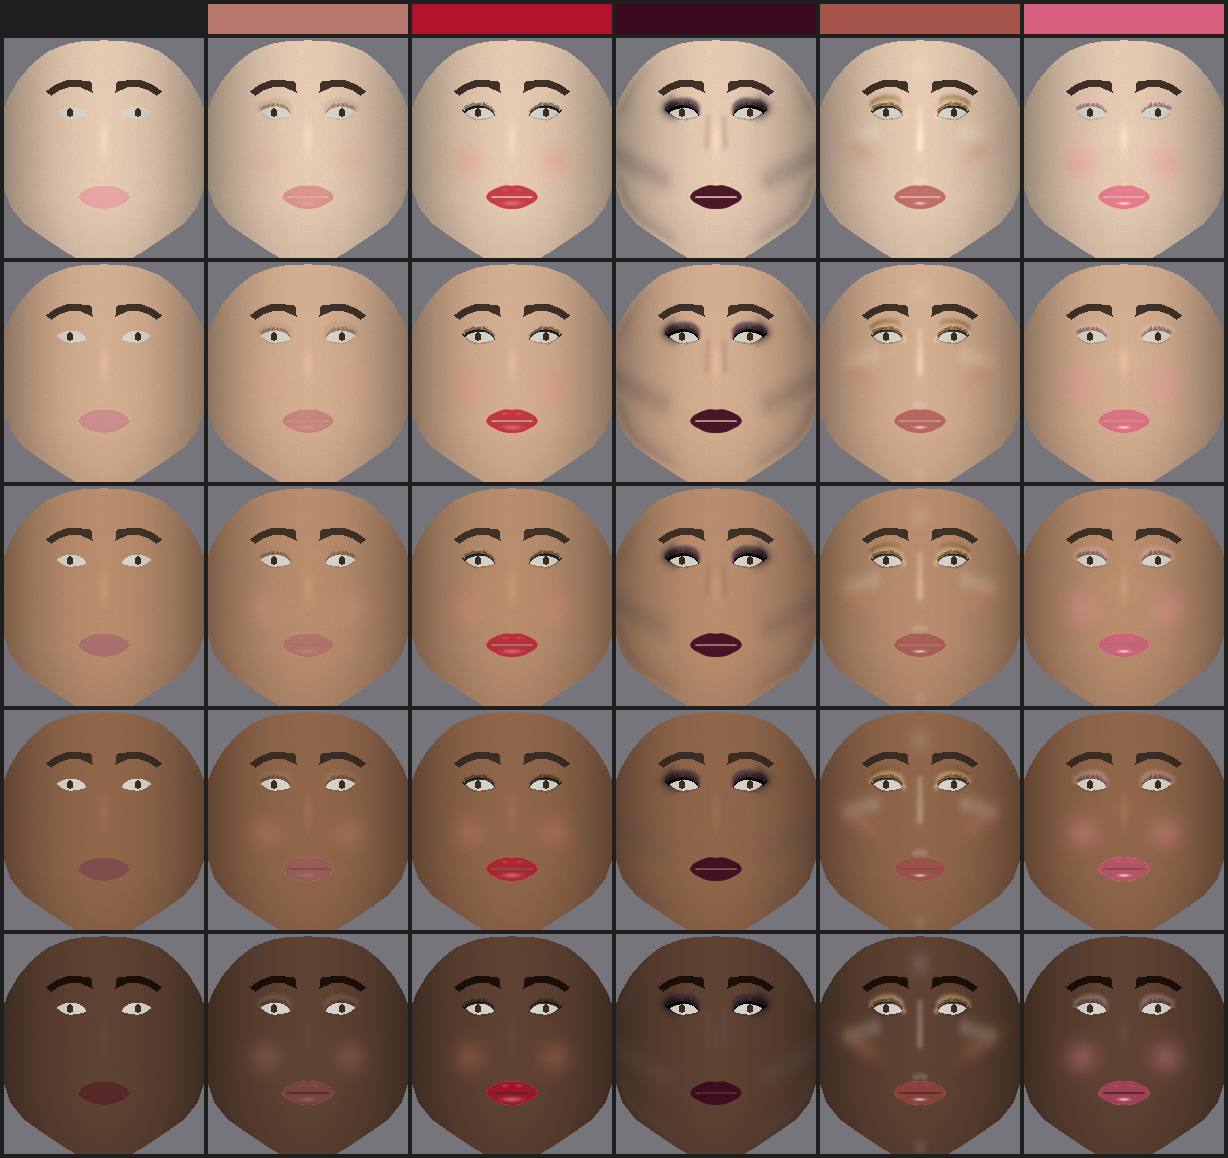
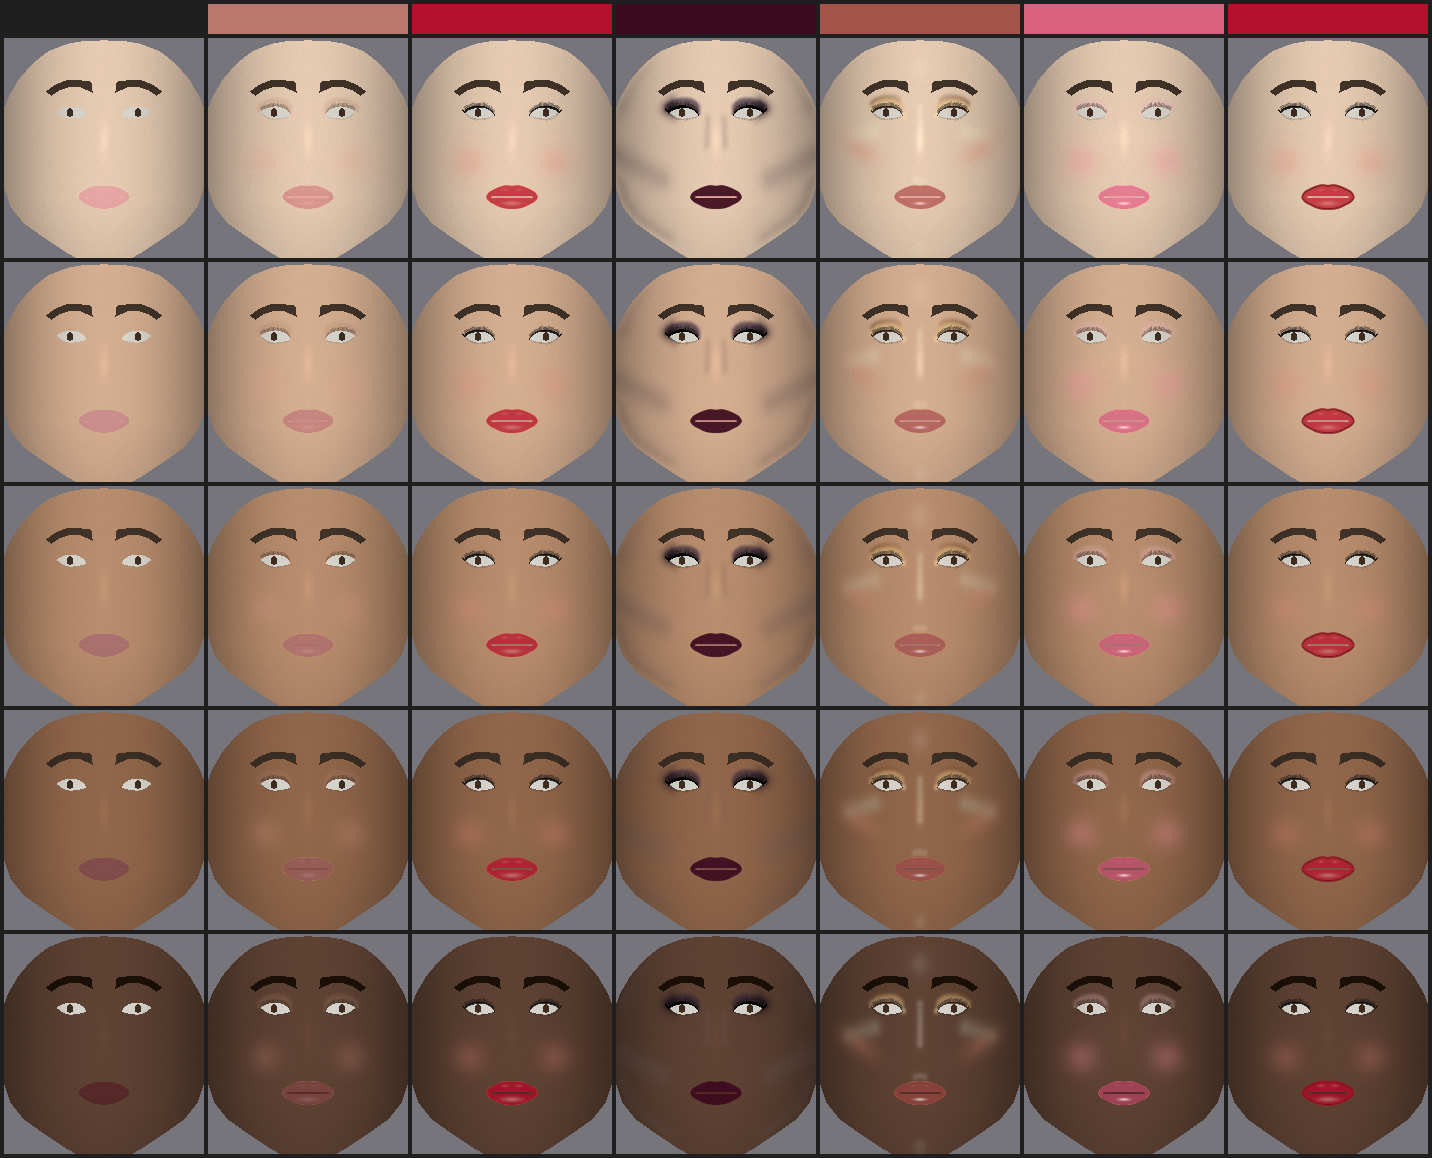
P6b: delineado de labios (lips.liner): la receta queda completa
- lips.frag: anillo sobre el borde del labial (canal B del mapa), con
  antialiasado fwidth con piso y techo, encima del labial con el mismo
  sombreado, mate (tapa el brillo); rama por uniform si no hay delineado.
  Grosor en engine_config.h (kLipLinerEdge).
- Renderer: setLipLiner + commit; nativeSetLipLiner; LipParams.liner en
  Kotlin (test JVM).
- Referencia Python (liner_alpha, shade con delineado) y tests; grilla de
  cara con una columna de prueba.
- Arnés: opción "Rojo + delineado" (ningún preset lo usa) vía
  TestFilterView.extraOptions (test de widget).
- LIPS.md y FACE.md al día. Verificado en el emulador.

diff --git a/lib/main_tracker.dart b/lib/main_tracker.dart
@@ -4,6 +4,8 @@ import 'package:flutter/material.dart';
 import 'package:makeup_engine/makeup_engine.dart';
 import 'package:permission_handler/permission_handler.dart';
 
+import 'features/ar/domain/makeup_recipe.dart';
+import 'features/ar/domain/recipe_presets.dart';
 import 'features/ar/presentation/test_filter_view.dart';
 
 /// Arnés de medición de P3 (tracker + compositor), separado de la app (sin
@@ -72,6 +74,30 @@ class _TrackerHarnessState extends State<_TrackerHarness> {
     }
   }
 
+  /// Receta de prueba: ningún preset usa el delineado de labios (P6b). Rojo
+  /// clásico con un delineado bordó.
+  static TestFilterOption _lipLinerOption() {
+    final red = RecipePresets.all.firstWhere((p) => p.id == 'classic_red').recipe;
+    final lips = red.lips;
+    final recipe = MakeupRecipe(
+      name: 'Rojo + delineado',
+      lips: lips == null
+          ? null
+          : LipsSpec(
+              color: lips.color,
+              opacity: lips.opacity,
+              finish: lips.finish,
+              gloss: lips.gloss,
+              lumaFollow: lips.lumaFollow,
+              liner: const ColorLayer(color: RecipeColor(0x6E0A1A), opacity: 0.8),
+            ),
+      cheeks: red.cheeks,
+      eyes: red.eyes,
+      skin: red.skin,
+    );
+    return TestFilterOption(id: 'lip_liner_test', label: recipe.name, recipe: recipe);
+  }
+
   static String _f(double? value, [int digits = 1]) => value == null ? '-' : value.toStringAsFixed(digits);
 
   @override
@@ -80,8 +106,9 @@ class _TrackerHarnessState extends State<_TrackerHarness> {
     return Scaffold(
       backgroundColor: Colors.black,
       body: granted == true
-          ? const TestFilterView(
-              labels: TestFilterLabels(
+          ? TestFilterView(
+              extraOptions: [_lipLinerOption()],
+              labels: const TestFilterLabels(
                 noFilter: 'Sin filtro',
                 intensity: 'Intensidad',
                 note: 'Arnés P3-P5: tracker + maquillaje completo. Métricas en logcat (TRACK).',

diff --git a/lib/features/ar/presentation/test_filter_view.dart b/lib/features/ar/presentation/test_filter_view.dart
@@ -109,7 +109,13 @@ final class TestFilterLabels {
 /// pantalla en vertical, la única orientación validada del motor. Quien la
 /// monte tiene que haber liberado antes cualquier otro uso de la cámara.
 class TestFilterView extends StatefulWidget {
-  const TestFilterView({super.key, required this.labels, this.renderer, this.onUnavailable});
+  const TestFilterView({
+    super.key,
+    required this.labels,
+    this.renderer,
+    this.onUnavailable,
+    this.extraOptions = const [],
+  });
 
   final TestFilterLabels labels;
 
@@ -119,6 +125,9 @@ class TestFilterView extends StatefulWidget {
   /// El renderer no puede mostrar maquillaje (ver [IMakeupRenderer.start]).
   final VoidCallback? onUnavailable;
 
+  /// Opciones después de los presets (el arnés suma recetas de prueba).
+  final List<TestFilterOption> extraOptions;
+
   @override
   State<TestFilterView> createState() => _TestFilterViewState();
 }
@@ -127,7 +136,10 @@ class _TestFilterViewState extends State<TestFilterView> {
   static const Duration _statsPeriod = Duration(seconds: 1);
 
   late final IMakeupRenderer _renderer = widget.renderer ?? createMakeupRenderer();
-  late final List<TestFilterOption> _options = TestFilterOption.fromPresets(widget.labels.noFilter);
+  late final List<TestFilterOption> _options = [
+    ...TestFilterOption.fromPresets(widget.labels.noFilter),
+    ...widget.extraOptions,
+  ];
   final ValueNotifier<MakeupRendererStats> _stats = ValueNotifier(MakeupRendererStats.empty);
 
   MakeupSurface? _surface;

diff --git a/test/features/ar/presentation/test_filter_view_test.dart b/test/features/ar/presentation/test_filter_view_test.dart
@@ -157,6 +157,22 @@ void main() {
     expect(renderer.recipes, isEmpty);
   });
 
+  testWidgets('las opciones extra van después de los presets', (tester) async {
+    final renderer = FakeRenderer();
+    final extra = TestFilterOption(id: 'x', label: 'Prueba', recipe: MakeupRecipe(name: 'Prueba'));
+    await tester.pumpWidget(MaterialApp(
+      home: Scaffold(body: TestFilterView(labels: labels, renderer: renderer, extraOptions: [extra])),
+    ));
+    await tester.pumpAndSettle();
+    // La lista de looks se construye a demanda: hay que desplazarla.
+    final looks = find.ancestor(of: find.text('Natural'), matching: find.byType(Scrollable));
+    await tester.scrollUntilVisible(find.text('Prueba'), 200, scrollable: looks.first);
+    await tester.pumpAndSettle();
+    await tester.tap(find.text('Prueba'));
+    await tester.pumpAndSettle();
+    expect(renderer.recipes.last?.name, 'Prueba');
+  });
+
   test('etiqueta del tracker según su estado', () {
     expect(trackerLabel(MakeupRendererStats.empty), 'Tracker: iniciando…');
     expect(trackerLabel(const MakeupRendererStats(tracking: FaceTrackingState.loading)), 'Tracker: cargando modelos…');

diff --git a/packages/makeup_engine/android/src/main/kotlin/com/makeupar/makeup_engine/RecipeParams.kt b/packages/makeup_engine/android/src/main/kotlin/com/makeupar/makeup_engine/RecipeParams.kt
@@ -79,6 +79,8 @@ internal data class LipParams(
     val finish: Int,
     val gloss: Float,
     val lumaFollow: Float,
+    /** Delineado de labios (`lips.liner`); apagado si falta o es inválido. */
+    val liner: ColorParams = ColorParams.DISABLED,
 ) {
     companion object {
         val DISABLED = LipParams(false, 0f, 0f, 0f, 0f, NativeBridge.LIP_FINISH_SATIN, 0f, 0f)
@@ -112,6 +114,7 @@ internal data class LipParams(
                 finish = finish,
                 gloss = unit(lips["gloss"]) ?: DEFAULT_GLOSS.getValue(finish),
                 lumaFollow = unit(lips["lumaFollow"]) ?: DEFAULT_LUMA_FOLLOW,
+                liner = ColorParams.fromMap(lips["liner"] as? Map<*, *>, "opacity"),
             )
         }
     }

diff --git a/packages/makeup_engine/android/src/test/kotlin/com/makeupar/makeup_engine/RecipeParamsTest.kt b/packages/makeup_engine/android/src/test/kotlin/com/makeupar/makeup_engine/RecipeParamsTest.kt
@@ -28,6 +28,14 @@ class RecipeParamsTest {
         assertEquals(NativeBridge.LIP_FINISH_GLOSS, lips.finish)
         assertNear(0.6f, lips.gloss)
         assertNear(0.35f, lips.lumaFollow)
+        assertFalse(lips.liner.enabled)
+        val lined = LipParams.fromMap(
+            mapOf("color" to "#B3122D", "opacity" to 0.85, "liner" to mapOf("color" to "#7A0C1E", "opacity" to 0.7)),
+        )
+        assertTrue(lined.liner.enabled)
+        assertNear(0x7A / 255f, lined.liner.r)
+        assertNear(0.7f, lined.liner.amount)
+        assertFalse(LipParams.fromMap(mapOf("color" to "#B3122D", "opacity" to 0.85, "liner" to mapOf("color" to "#7A0C1E"))).liner.enabled)
     }
 
     @Test

diff --git a/packages/makeup_engine/android/src/main/kotlin/com/makeupar/makeup_engine/EngineSession.kt b/packages/makeup_engine/android/src/main/kotlin/com/makeupar/makeup_engine/EngineSession.kt
@@ -349,6 +349,8 @@ internal class EngineSession(
         NativeBridge.nativeSetLips(
             handle, lips.enabled, lips.r, lips.g, lips.b, lips.opacity, lips.finish, lips.gloss, lips.lumaFollow,
         )
+        val lipLiner = lips.liner
+        NativeBridge.nativeSetLipLiner(handle, lipLiner.enabled, lipLiner.r, lipLiner.g, lipLiner.b, lipLiner.amount)
         val cheeks = params.cheeks
         val blush = cheeks.color
         NativeBridge.nativeSetCheeks(

diff --git a/packages/makeup_engine/android/src/main/kotlin/com/makeupar/makeup_engine/NativeBridge.kt b/packages/makeup_engine/android/src/main/kotlin/com/makeupar/makeup_engine/NativeBridge.kt
@@ -136,6 +136,9 @@ internal object NativeBridge {
         lumaFollow: Float,
     )
 
+    /** Delineado de labios (lips.liner): color y opacidad; solo se ve con labial. */
+    @JvmStatic external fun nativeSetLipLiner(handle: Long, enabled: Boolean, r: Float, g: Float, b: Float, opacity: Float)
+
     /** Rubor: opacidad, spread [0,1] y placement (CHEEK_*). */
     @JvmStatic external fun nativeSetCheeks(
         handle: Long,

diff --git a/tools/lips/lip_shading.py b/tools/lips/lip_shading.py
@@ -63,15 +63,35 @@ class LipParams:
     light: float  # atenuación por luz de la escena, [0, 1]
 
 
+@dataclass(frozen=True)
+class LipLiner:
+    """Delineado de labios (uLinerLab, uLinerAmount, uLinerEdge)."""
+
+    target_lab: np.ndarray
+    amount: float  # opacidad [0, 1]; 0 = sin delineado
+    edge: float = 0.3  # engine_config.h: kLipLinerEdge
+
+
+def liner_alpha(distance: np.ndarray, liner: LipLiner, aa: np.ndarray | float) -> np.ndarray:
+    """Cobertura del delineado sobre el canal B del mapa (distancia al borde)."""
+    if liner.amount <= 0.0:
+        return np.zeros_like(distance)
+    aa = np.clip(aa, 1e-3, 0.5)
+    t = np.clip((distance - liner.edge) / aa, 0.0, 1.0)
+    return (1.0 - t * t * (3.0 - 2.0 * t)) * liner.amount
+
+
 def shade(camera_srgb: np.ndarray, mask: np.ndarray, gloss_map: np.ndarray, p: LipParams,
-          sparkle: np.ndarray | float = 0.0) -> np.ndarray:
+          sparkle: np.ndarray | float = 0.0, liner: np.ndarray | float = 0.0,
+          liner_lab: np.ndarray | None = None) -> np.ndarray:
     """Color sRGB de salida por píxel (lips.frag).
 
     camera_srgb (..., 3) en [0,1]; mask y gloss_map (...) en [0,1] (canales R
     y G del mapa de labios; gloss_map ya leído en la posición desplazada por
     la pose). sparkle (...) son los destellos ya multiplicados por uSparkle
     (el hash de celdas del shader no se reproduce). La orientación (vFacing
-    de lips.vert) no está: equivale a 1, el labio de frente.
+    de lips.vert) no está: equivale a 1, el labio de frente. liner (...) es la
+    cobertura del delineado (liner_alpha) con su color OKLab liner_lab.
     """
     w = np.clip(mask * p.opacity, 0.0, 1.0)
     lab = to_ok(srgb_to_lin(camera_srgb))
@@ -83,14 +103,19 @@ def shade(camera_srgb: np.ndarray, mask: np.ndarray, gloss_map: np.ndarray, p: L
     lit = p.target_lab * shading[..., None]
     lightness = np.clip(lab[..., 0] + (lit[..., 0] - lab[..., 0]) * w * p.luma_follow, 0.0, 1.0)
     ab = lab[..., 1:] + (lit[..., 1:] - lab[..., 1:]) * w[..., None]
+    liner = np.broadcast_to(np.asarray(liner, dtype=float), w.shape)
+    if liner_lab is not None:
+        liner_lit = liner_lab * shading[..., None]
+        lightness = np.clip(lightness + (liner_lit[..., 0] - lightness) * liner, 0.0, 1.0)
+        ab = ab + (liner_lit[..., 1:] - ab) * liner[..., None]
     out = oklab_to_linear_in_gamut(np.concatenate([lightness[..., None], ab], axis=-1))
     # El brillo necesita luz: no aparece en las sombras y pliegues del labio.
     lit_gate = _smoothstep(GLOSS_SHADING_LOW, GLOSS_SHADING_HIGH, shading)
     # Los destellos ya vienen con su brillo (uSparkle): no se multiplican por gloss.
-    spec = (np.power(gloss_map, p.sharpness) * p.gloss + sparkle) * p.light * w * lit_gate
+    spec = (np.power(gloss_map, p.sharpness) * p.gloss + sparkle) * p.light * w * (1.0 - liner) * lit_gate
     out = np.minimum(out + spec[..., None], 1.0)
-    # Fuera de la máscara el shader devuelve la cámara tal cual.
-    return np.where((w > 0.0)[..., None], lin_to_srgb(out), camera_srgb)
+    # Fuera de la máscara y del delineado el shader no toca el píxel.
+    return np.where(((w > 0.0) | (liner > 0.0))[..., None], lin_to_srgb(out), camera_srgb)
 
 
 def _smoothstep(edge0: float, edge1: float, x: np.ndarray) -> np.ndarray:

diff --git a/tools/makeup/calibration_grid.py b/tools/makeup/calibration_grid.py
@@ -35,7 +35,8 @@ import gen_face_maps as fm  # noqa: E402
 import gen_lips_maps as lm  # noqa: E402
 from face_shading import (Layer, blend, compose, freckle_alpha, freckle_lab, glitter_sparkle,  # noqa: E402
                           lash_alpha, layer_over, sheen_gain)
-from lip_shading import LipParams, from_ok, hex_to_srgb, lin_to_srgb, shade, srgb_to_oklab, to_ok  # noqa: E402
+from lip_shading import (LipLiner, LipParams, from_ok, hex_to_srgb, lin_to_srgb, liner_alpha, shade,  # noqa: E402
+                         srgb_to_oklab, to_ok)
 
 PRESETS_DART = ROOT / "lib/features/ar/domain/recipe_presets.dart"
 ENGINE_CONFIG = ROOT / "packages/makeup_engine/android/src/main/cpp/engine_config.h"
@@ -119,7 +120,7 @@ class Maps:
         self.eye_c = sample(c8, eye_rect, self.mirrored, self.v)
         self.side = (self.u > 0.5).astype(float)
         lips = sample(lips_rg8, lips_rect, self.u, self.v)
-        self.lips_mask, self.lips_gloss = lips[..., 0], lips[..., 1]
+        self.lips_mask, self.lips_gloss, self.lips_liner = lips[..., 0], lips[..., 1], lips[..., 2]
 
         points = np.stack([self.mirrored.ravel(), self.v.ravel()], axis=1)
         shape = self.u.shape
@@ -272,8 +273,15 @@ def apply_recipe(camera: np.ndarray, maps: Maps, recipe: dict, k: dict[str, floa
                            luma_follow=lips.get("lumaFollow", 0.8), lip_lightness=lip_ref, gloss=gloss,
                            sharpness=sharpness, light=1.0)
         w = np.clip(maps.lips_mask * params.opacity, 0, 1)
-        result = shade(camera, maps.lips_mask, maps.lips_gloss, params)
-        out = blend(out, *layer_over(result, camera, w))
+        liner = np.zeros_like(w)
+        liner_lab = None
+        if lips.get("liner"):
+            spec = LipLiner(color(lips["liner"]["color"]), lips["liner"]["opacity"], k["kLipLinerEdge"])
+            gy, gx = np.gradient(maps.lips_liner)
+            liner = liner_alpha(maps.lips_liner, spec, np.abs(gx) + np.abs(gy))
+            liner_lab = spec.target_lab
+        result = shade(camera, maps.lips_mask, maps.lips_gloss, params, liner=liner, liner_lab=liner_lab)
+        out = blend(out, *layer_over(result, camera, 1.0 - (1.0 - w) * (1.0 - liner)))
     return np.clip(out, 0, 1)
 
 
@@ -285,6 +293,10 @@ def _smooth(edge0: float, edge1: float, x: np.ndarray) -> np.ndarray:
 def main() -> int:
     k = engine_constants()
     looks = presets()
+    # Columna de prueba: ningún preset usa el delineado de labios.
+    red = next(r for r in looks if r["name"] == "Rojo clásico")
+    looks.append({**red, "name": "Rojo + delineado (prueba)",
+                  "lips": {**red["lips"], "liner": {"color": "#6E0A1A", "opacity": 0.8}}})
     maps = Maps()
     columns = 1 + len(looks)
     width = columns * CELL_W + (columns + 1) * GAP

diff --git a/packages/makeup_engine/android/src/main/cpp/renderer.cpp b/packages/makeup_engine/android/src/main/cpp/renderer.cpp
@@ -189,11 +189,14 @@ bool Renderer::buildLipsProgram(LipsProgram& out, const char* defines) {
   out.view = glGetUniformLocation(id, "uView");
   out.time = glGetUniformLocation(id, "uTime");
   out.sparkle = glGetUniformLocation(id, "uSparkle");
+  out.linerLab = glGetUniformLocation(id, "uLinerLab");
+  out.linerAmount = glGetUniformLocation(id, "uLinerAmount");
   // Constantes de la sesión: samplers y la transformación UV -> mapa.
   const float* rect = mesh::kLipsMapUvRect;
   glUseProgram(id);
   glUniform1i(glGetUniformLocation(id, "uCamera"), 0);
   glUniform1i(glGetUniformLocation(id, "uLipsMap"), kLipsMapTextureUnit);
+  glUniform1f(glGetUniformLocation(id, "uLinerEdge"), EngineConfig::kLipLinerEdge);
   glUniform4f(glGetUniformLocation(id, "uMapTransform"), 1.0f / rect[2], 1.0f / rect[3],
               -rect[0] / rect[2], -rect[1] / rect[3]);
   glUniform2f(glGetUniformLocation(id, "uFacingFade"), EngineConfig::kLipsFacingFadeStart,
@@ -469,6 +472,8 @@ void Renderer::drawLips(const RenderLandmarks& landmarks, const float* imageToCl
   glUniform1f(program.lipLightness, lipLightness);
   glUniform1f(program.gloss, drawLips_.gloss);
   if (program.sparkle >= 0) glUniform1f(program.sparkle, drawLips_.sparkle);
+  glUniform3fv(program.linerLab, 1, drawLips_.linerLab);
+  glUniform1f(program.linerAmount, drawLips_.linerAmount * landmarks.alpha);
   glUniform1f(program.sharpness, drawLips_.sharpness);
   glUniform1f(program.light, light);
   glUniform2f(program.glossShift, shiftU / rect[2], shiftV / rect[3]);
@@ -564,6 +569,11 @@ void Renderer::setLips(const LipStyle& style) {
   pendingLips_ = uniforms;
 }
 
+void Renderer::setLipLiner(const ColorLayer& style) {
+  std::lock_guard<std::mutex> lock(configMutex_);
+  pendingLipLiner_ = style;
+}
+
 void Renderer::setCheeks(const CheekStyle& style) {
   std::lock_guard<std::mutex> lock(configMutex_);
   pendingCheek_ = style;
@@ -605,6 +615,8 @@ void Renderer::commitRecipe() {
   eyeUniforms_ = resolveEyes(pendingShadows_, pendingLiner_, pendingLashes_);
   LipEffects lipEffects;
   applyEffects(pendingEffects_, &faceUniforms_, &eyeUniforms_, &lipEffects);
+  // Delineado de labios (face_style: mismo recorte que las otras capas).
+  resolveColorLayer(pendingLipLiner_, lipUniforms_.linerLab, &lipUniforms_.linerAmount);
   // Glitter y sheen en los labios: solo si hay labial (si no, no hay capa).
   if (lipUniforms_.enabled) {
     if (lipEffects.sparkle > 0.0f) {

diff --git a/tools/lips/test_lip_shading.py b/tools/lips/test_lip_shading.py
@@ -12,7 +12,7 @@ from pathlib import Path
 import numpy as np
 
 sys.path.insert(0, str(Path(__file__).resolve().parent))
-from lip_shading import LipParams, from_ok, hex_to_srgb, oklab_to_linear_in_gamut, shade, srgb_to_oklab, to_ok  # noqa: E402
+from lip_shading import LipLiner, LipParams, from_ok, liner_alpha, hex_to_srgb, oklab_to_linear_in_gamut, shade, srgb_to_oklab, to_ok  # noqa: E402
 
 
 def hue(lab: np.ndarray) -> float:
@@ -123,6 +123,23 @@ class ShadeTest(unittest.TestCase):
         gain_dark = shade(dark, np.ones(1), np.ones(1), on) - shade(dark, np.ones(1), np.ones(1), off)
         self.assertGreater(float(gain_lit.mean()), 0.05)
         np.testing.assert_allclose(gain_dark, 0.0, atol=1e-9)
+
+    def test_delineado_sobre_el_borde_y_mate(self):
+        liner = LipLiner(target_lab=srgb_to_oklab(hex_to_srgb("#5A0A16")), amount=0.8)
+        distance = np.array([0.0, 0.25, 0.6, 1.0])
+        alpha = liner_alpha(distance, liner, aa=0.05)
+        self.assertAlmostEqual(float(alpha[0]), 0.8)
+        self.assertAlmostEqual(float(alpha[3]), 0.0)
+        self.assertTrue(np.all(np.diff(alpha) <= 0))
+        self.assertTrue(np.all(liner_alpha(distance, LipLiner(liner.target_lab, 0.0), 0.05) == 0))
+        # Afuera del labial (máscara 0) el delineado igual pinta; adentro tapa el brillo.
+        camera = np.array([[0.75, 0.55, 0.5], [0.7, 0.45, 0.43]])
+        p = self.params(gloss=0.8, lip_lightness=0.6)
+        out = shade(camera, np.array([0.0, 1.0]), np.ones(2), p, liner=np.array([0.8, 0.8]), liner_lab=liner.target_lab)
+        self.assertLess(float(out[0].mean()), float(camera[0].mean()) - 0.1)
+        bright = shade(camera, np.ones(2), np.ones(2), p)
+        lined = shade(camera, np.ones(2), np.ones(2), p, liner=np.full(2, 0.8), liner_lab=liner.target_lab)
+        self.assertLess(float(lined[1].mean()), float(bright[1].mean()))
 
     def test_salida_siempre_en_rango(self):
         rng = np.random.default_rng(3)

diff --git a/packages/makeup_engine/android/src/main/cpp/renderer.h b/packages/makeup_engine/android/src/main/cpp/renderer.h
@@ -75,6 +75,8 @@ class Renderer {
   // pendiente; commitRecipe() la publica entera, así el render nunca dibuja
   // media receta. Los valores se recortan a rango.
   void setLips(const LipStyle& style);
+  // Delineado de labios (lips.liner): solo se dibuja con labial.
+  void setLipLiner(const ColorLayer& style);
   void setCheeks(const CheekStyle& style);
   void setSkinLayer(SkinLayer layer, const ColorLayer& style);
   // [slot] en [0, kMaxEyeShadows): en el orden de la receta (se pintan en ese orden).
@@ -131,6 +133,8 @@ class Renderer {
     GLint view = -1;
     GLint time = -1;     // solo SHIMMER
     GLint sparkle = -1;  // solo SHIMMER
+    GLint linerLab = -1;
+    GLint linerAmount = -1;
     uint32_t uploadedDisplayVersion = 0;
   };
 
@@ -144,6 +148,8 @@ class Renderer {
     float gloss = 0.0f;
     float sharpness = 1.0f;
     float sparkle = 0.0f;  // destellos (SHIMMER): acabado shimmer o efecto glitter
+    float linerLab[3] = {0.0f, 0.0f, 0.0f};
+    float linerAmount = 0.0f;  // delineado de labios; 0 = sin delineado
   };
 
   bool buildProgram(Program& out, const char* fragmentSource, const char* defines);
@@ -196,6 +202,7 @@ class Renderer {
   bool mirrored_ = true;
   // Receta pendiente (set*) y publicada (commitRecipe).
   LipUniforms pendingLips_;
+  ColorLayer pendingLipLiner_;
   ColorLayer pendingSkin_[kSkinLayerCount];
   CheekStyle pendingCheek_;
   EyeShadowStyle pendingShadows_[kMaxEyeShadows];
